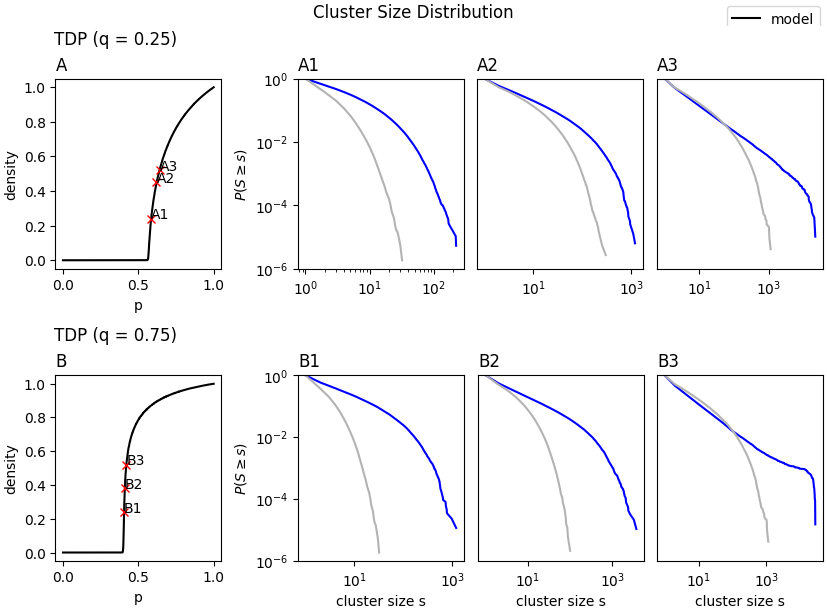
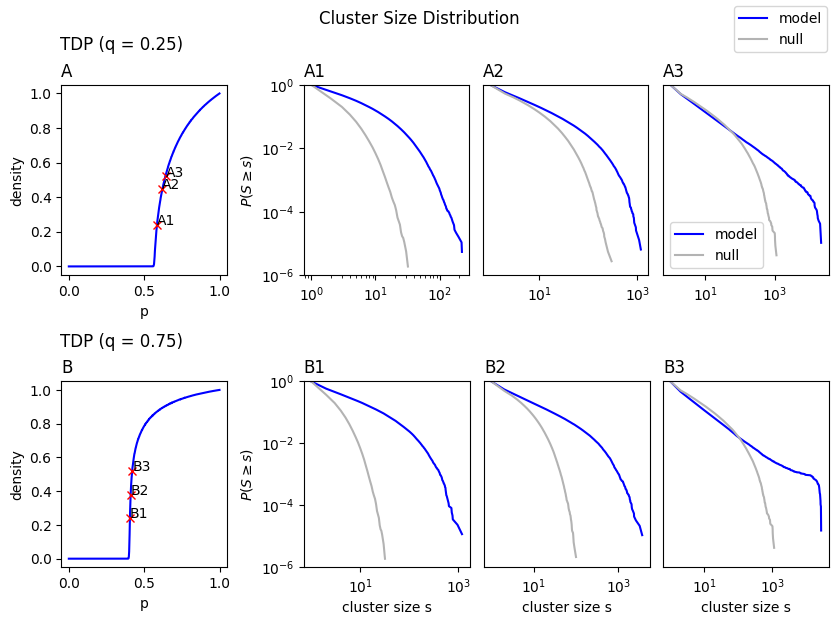
Compiled main and appendix figures

diff --git a/fig1.py b/fig1.py
@@ -1,4 +1,5 @@
 from matplotlib import pyplot as plt
+from matplotlib.lines import Line2D
 from numpy import delete, loadtxt, transpose, zeros
 from utils import get_file_root
 from tqdm import tqdm
@@ -105,7 +106,7 @@ if __name__ == '__main__':
         for col, ax in enumerate(axs):
             if col == 0:
                 phase_diagram = transpose(loadtxt(f"{base_path}/{model_name}/{phase_diagram_file}"))
-                ax.plot(phase_diagram[0], phase_diagram[1], "k-")
+                ax.plot(phase_diagram[0], phase_diagram[1], "b-")
                 ax.set_title(chr(65 + row), loc="left")
                 ax.set_xlabel(variable)
                 ax.set_ylabel("density")
@@ -141,11 +142,15 @@ if __name__ == '__main__':
 
                 if row == num_rows - 1:
                     ax.set_xlabel("cluster size s")
+
+                if row == 0 and col == num_cols - 1:
+                    blue_line = Line2D([0], [0], color="blue", label="model")
+                    grey_line = Line2D([0], [0], color="0.7", label="null")
+                    ax.legend(handles=[blue_line, grey_line])
             
     if main_fig:
         fig_name = f"./figures/fig1_{null_dataset}.png"
     else:
         fig_name = f"./figures/fig1_{null_dataset}_appendix.png"
 
-    fig.legend(["model", "null"], loc='upper right')
-    plt.savefig(fig_name)
+    plt.savefig(fig_name, bbox_inches="tight")

diff --git a/fig3.py b/fig3.py
@@ -1,4 +1,5 @@
 from matplotlib import pyplot as plt
+from matplotlib.lines import Line2D
 from numpy import loadtxt, transpose
 from tqdm import tqdm
 from utils import get_file_root
@@ -149,10 +150,14 @@ if __name__ == '__main__':
             if col == 0:
                 ax.set_ylabel("mean growth rate")
 
+            if row == 0 and col == num_cols - 1:
+                blue_line = Line2D([0], [0], color="blue", label="model")
+                grey_line = Line2D([0], [0], color="0.7", label="null")
+                ax.legend(handles=[blue_line, grey_line])
+
     if main_fig:
         fig_name = f"./figures/fig3_{null_dataset}.png"
     else:
         fig_name = f"./figures/fig3_{null_dataset}_appendix.png"
 
-    fig.legend(["model", "null"], loc='upper right')
-    plt.savefig(fig_name)
+    plt.savefig(fig_name, bbox_inches="tight")

diff --git a/fig2.py b/fig2.py
@@ -1,4 +1,5 @@
 from matplotlib import pyplot as plt
+from matplotlib.lines import Line2D
 from numpy import array, delete, loadtxt, transpose, zeros
 from utils import get_file_root
 from tqdm import tqdm
@@ -167,10 +168,14 @@ if __name__ == '__main__':
                 ax.set_xticklabels([])
                 ax.set_xticks([])
 
+            if row == 0 and col == num_cols - 1:
+                blue_line = Line2D([0], [0], color="blue", label="model")
+                grey_line = Line2D([0], [0], color="0.7", label="null")
+                ax.legend(handles=[blue_line, grey_line])
+
     if main_fig:
         fig_name = f"./figures/fig2_{null_dataset}.png"
     else:
         fig_name = f"./figures/fig2_{null_dataset}_appendix.png"
 
-    fig.legend(["model", "null"], loc='upper right')
     plt.savefig(fig_name)

diff --git a/fig4.py b/fig4.py
@@ -1,4 +1,5 @@
 from matplotlib import pyplot as plt
+from matplotlib.lines import Line2D
 from numpy import loadtxt, transpose
 from tqdm import tqdm
 from utils import get_file_root
@@ -137,10 +138,14 @@ if __name__ == '__main__':
             if col == 0:
                 ax.set_ylabel("variance")
 
+            if row == 0 and col == num_cols - 1:
+                blue_line = Line2D([0], [0], color="blue", label="model")
+                grey_line = Line2D([0], [0], color="0.7", label="null")
+                ax.legend(handles=[blue_line, grey_line])
+
     if main_fig:
         fig_name = f"./figures/fig4_{null_dataset}.png"
     else:
         fig_name = f"./figures/fig4_{null_dataset}_appendix.png"
 
-    fig.legend(["model", "null"], loc='upper right')
     plt.savefig(fig_name)
